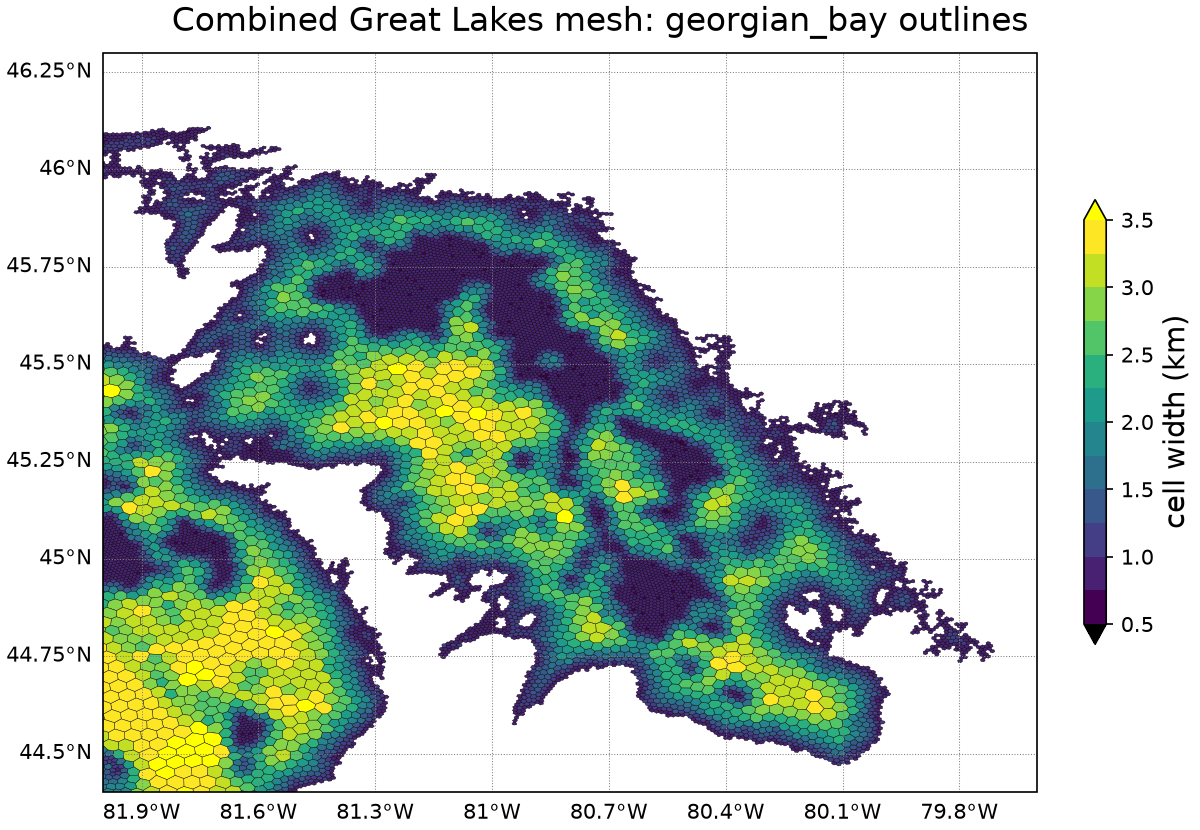
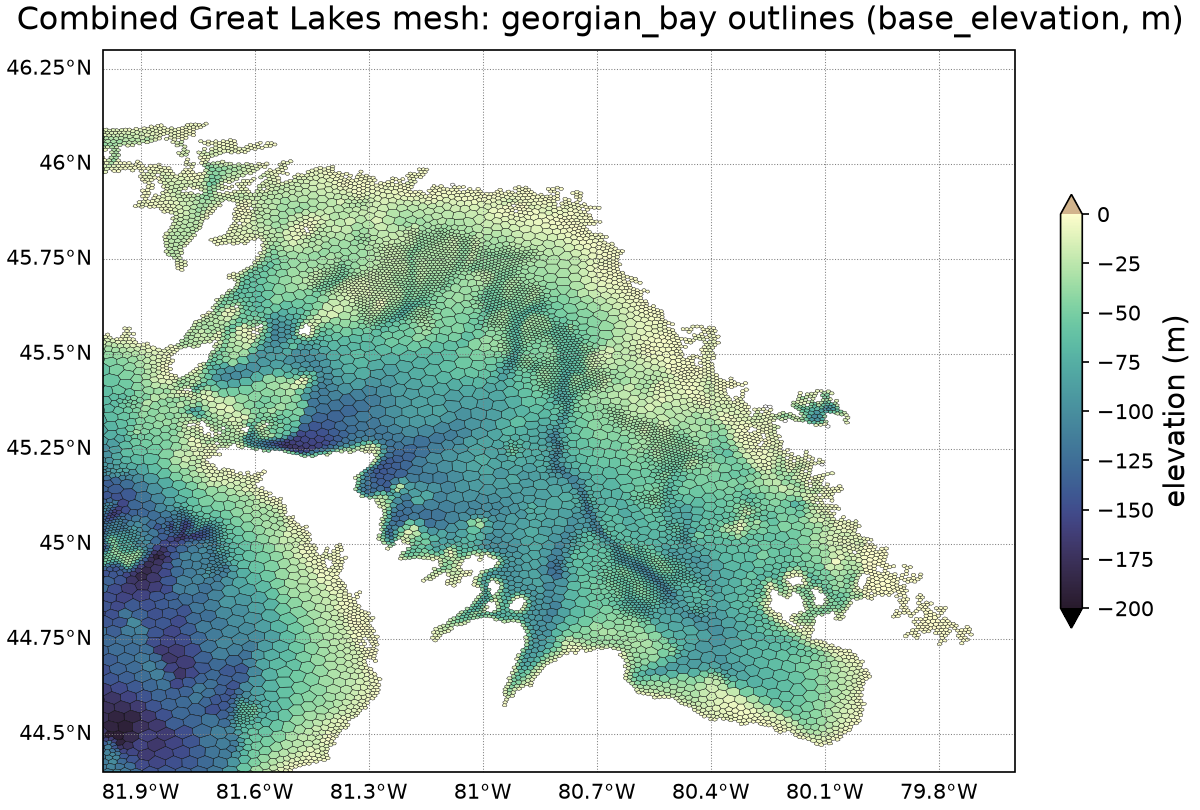
Add a superior_trough zoom and switch mesh zooms to bathymetry
The three existing MESH_OUTLINE_ZOOMS (soo_locks, straits_of_mackinac,
georgian_bay) were colored by cell width. Switch them to base_elevation
instead, since depth is more informative at the zoom scale than cell
width, which is already the subject of the full-domain plot. Each zoom
gets its own viz_combined_bathymetry_<name> colormap section with a
vmin tuned to its own depth range, since one shared vmin would wash out
every zoom but the deepest.

Also add a fourth zoom, superior_trough, centered on Lake Superior's
southeast glacial trough -- the combined mesh's deepest point and an
enclosed, steep-walled basin refined by the slope/length-scale
criteria rather than coastal distance.

diff --git a/polaris/tasks/ocean/great_lakes/viz.py b/polaris/tasks/ocean/great_lakes/viz.py
@@ -6,17 +6,22 @@ from polaris import Step
 from polaris.viz import plot_global_mpas_field
 
 #: Zoom boxes (lon_min, lon_max, lat_min, lat_max), degrees, drawn with
-#: visible cell outlines.  Each one is small enough that the outlines
-#: stay legible (see ``_ZOOM_PAD_DEG`` and the ratio written to
-#: ``debug_summary.txt``) and each shows a feature specific to the
+#: visible cell outlines over bathymetry.  Each one is small enough that
+#: the outlines stay legible (see ``_ZOOM_PAD_DEG`` and the ratio written
+#: to ``debug_summary.txt``) and each shows a feature specific to the
 #: combined mesh: the Soo Locks truncation of Superior's domain, the
-#: seam where Michigan and Huron's separate bathymetry sources join, and
-#: the topographic-length-scale refinement in Georgian Bay (see
-#: docs/design_docs/great_lakes_mesh.md).
+#: seam where Michigan and Huron's separate bathymetry sources join, the
+#: topographic-length-scale refinement in Georgian Bay, and Lake
+#: Superior's southeast glacial trough -- its deepest point, an enclosed
+#: steep-walled basin whose floor is refined by the slope/length-scale
+#: criteria rather than coastal distance (see docs/design_docs/
+#: great_lakes_mesh.md). The box is centered on the trough's deepest
+#: cell, at roughly 46.91 N, 86.60 W.
 MESH_OUTLINE_ZOOMS = {
     'soo_locks': (-85.2, -83.8, 45.8, 47.0),
     'straits_of_mackinac': (-85.6, -84.2, 45.4, 46.3),
     'georgian_bay': (-82.0, -79.6, 44.4, 46.3),
+    'superior_trough': (-87.2, -85.8, 46.5, 47.3),
 }
 
 #: Padding, in degrees, applied when selecting cells for a zoom box so
@@ -126,12 +131,15 @@ class VizCombinedGreatLakesMesh(Step):
                 )
                 plot_global_mpas_field(
                     mesh_filename='combined_mesh.nc',
-                    da=da_width[cell_indices],
+                    da=base_elevation[cell_indices],
                     out_filename=f'combined_mesh_outline_{name}.png',
                     config=config,
-                    colormap_section='viz_combined_cell_width',
-                    title=f'Combined Great Lakes mesh: {name} outlines',
-                    colorbar_label='cell width (km)',
+                    colormap_section=f'viz_combined_bathymetry_{name}',
+                    title=(
+                        f'Combined Great Lakes mesh: {name} outlines '
+                        f'(base_elevation, m)'
+                    ),
+                    colorbar_label='elevation (m)',
                     plot_land=False,
                     extent=box,
                     patch_edge_color='black',

diff --git a/docs/users_guide/ocean/tasks/great_lakes.md b/docs/users_guide/ocean/tasks/great_lakes.md
@@ -234,13 +234,18 @@ than a simplification.
 ### visualization
 
 The `viz` step plots the combined mesh: full-domain cell width and
-bathymetry (filled, with no cell outlines), plus three zoomed-in views
-with crisp, individually visible cell outlines at the Soo Locks, the
-Straits of Mackinac, and Georgian Bay -- the three places where the
-combined mesh's construction is easiest to check by eye. Outlines are not
+bathymetry (filled, with no cell outlines), plus four zoomed-in views
+with crisp, individually visible cell outlines over bathymetry at the
+Soo Locks, the Straits of Mackinac, Georgian Bay, and Lake Superior's
+southeast glacial trough -- places where the combined mesh's
+construction is easiest to check by eye, or (for the trough) where the
+mesh's slope/length-scale refinement is best seen. Outlines are not
 drawn on the full-domain plots: at 89,691 cells over the combined domain,
 outlines at that scale blend into a solid wash rather than showing
-individual cells. `debug_summary.txt` records scalar diagnostics, including
+individual cells. The zoomed views are colored by bathymetry rather than
+cell width since depth is the more informative field at that scale; each
+has its own colormap `vmin`, tuned to its own depth range (see the config
+options below). `debug_summary.txt` records scalar diagnostics, including
 each zoomed view's span-to-median-cell-width ratio as a legibility check.
 
 ```{image} images/great_lakes_combined_cell_width.png
@@ -254,6 +259,11 @@ each zoomed view's span-to-median-cell-width ratio as a legibility check.
 ```
 
 ```{image} images/great_lakes_combined_mesh_outline_georgian_bay.png
+:align: center
+:width: 500px
+```
+
+```{image} images/great_lakes_combined_mesh_outline_superior_trough.png
 :align: center
 :width: 500px
 ```
@@ -292,6 +302,36 @@ over_color = yellow
 # colormap for the remapped bathymetry.  vmin is just below the combined
 # mesh's deepest cell (about -401 m, in Lake Superior)
 [viz_combined_bathymetry]
+colormap_name = cmo.deep_r
+norm_type = linear
+norm_args = {'vmin': -410.0, 'vmax': 0.0}
+under_color = black
+over_color = tan
+
+# colormaps for the four zoomed mesh-outline views, each with its own
+# vmin tuned to that zoom's own depth range
+[viz_combined_bathymetry_soo_locks]
+colormap_name = cmo.deep_r
+norm_type = linear
+norm_args = {'vmin': -200.0, 'vmax': 0.0}
+under_color = black
+over_color = tan
+
+[viz_combined_bathymetry_straits_of_mackinac]
+colormap_name = cmo.deep_r
+norm_type = linear
+norm_args = {'vmin': -140.0, 'vmax': 0.0}
+under_color = black
+over_color = tan
+
+[viz_combined_bathymetry_georgian_bay]
+colormap_name = cmo.deep_r
+norm_type = linear
+norm_args = {'vmin': -200.0, 'vmax': 0.0}
+under_color = black
+over_color = tan
+
+[viz_combined_bathymetry_superior_trough]
 colormap_name = cmo.deep_r
 norm_type = linear
 norm_args = {'vmin': -410.0, 'vmax': 0.0}

diff --git a/docs/developers_guide/ocean/tasks/great_lakes.md b/docs/developers_guide/ocean/tasks/great_lakes.md
@@ -135,18 +135,23 @@ as attributes for exactly this purpose:
    used elsewhere, since that estimate assumes a regular hexagon and
    understates width on the clipped coastal cells this plot exists to
    show) and bathymetry, with no cell outlines drawn on either. A
-   full-domain outline plot isn't produced: at 90,021 cells, ink from the
+   full-domain outline plot isn't produced: at 89,691 cells, ink from the
    outlines would dominate the small coastal cells and wash into a solid
    color at any dpi, since the stroke width and cell size both scale with
-   it. Instead, `MESH_OUTLINE_ZOOMS` draws three small boxes (the Soo
+   it. Instead, `MESH_OUTLINE_ZOOMS` draws four small boxes (the Soo
    Locks truncation, the Michigan/Huron bathymetry seam at the Straits of
-   Mackinac, and the topographic-length-scale-refined troughs in Georgian
-   Bay) with fully legible per-cell outlines, each one chosen to show a
+   Mackinac, the topographic-length-scale-refined troughs in Georgian
+   Bay, and Lake Superior's southeast glacial trough, its deepest point)
+   with fully legible per-cell outlines, each one chosen to show a
    feature specific to how the combined mesh was built (see
-   `docs/design_docs/great_lakes_mesh.md`). `debug_summary.txt` records
-   each zoom's span-to-median-cell-width ratio so future boxes can be
-   checked against the same rule of thumb that ruled out a full-domain
-   version.
+   `docs/design_docs/great_lakes_mesh.md`). Unlike the full-domain plots,
+   the zooms are colored by `base_elevation` rather than cell width, one
+   colormap section per zoom (`viz_combined_bathymetry_<name>`) since
+   each zoom's own depth range is different enough that a single shared
+   `vmin` would wash out all but the deepest one. `debug_summary.txt`
+   records each zoom's span-to-median-cell-width ratio so future boxes
+   can be checked against the same rule of thumb that ruled out a
+   full-domain version.
 2. {py:class}`polaris.tasks.ocean.great_lakes.task.GreatLakesCombinedInitTask`
    (`ocean/spherical/great_lakes/combined/init`) runs
    {py:class}`polaris.tasks.ocean.great_lakes.init.Init`
